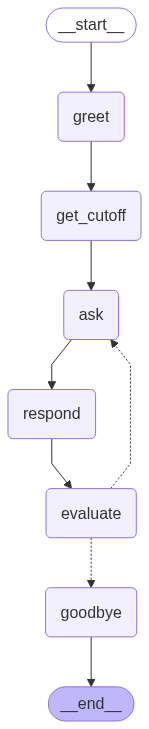
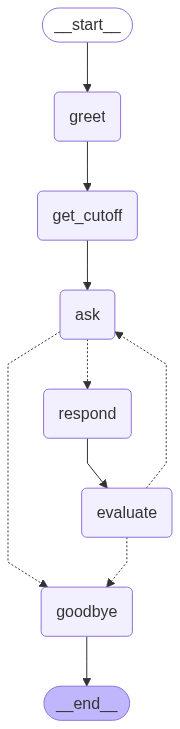
Add interactive chatbot tutorial with state management and graph visualization

diff --git a/01-Graphs/07-Sequential_Graphs/07-Sequential_Graphs.py b/01-Graphs/07-Sequential_Graphs/07-Sequential_Graphs.py
@@ -1,0 +1,187 @@
+# %% [markdown]
+# # LangGraph Tutorial: Interactive Chatbot with Advanced Features
+# 
+# ## Introduction
+# 
+# This notebook provides a comprehensive tutorial on building interactive chatbot workflows using LangGraph. It covers fundamental concepts such as:
+# 
+# - **Nodes:** Representing individual processing steps.
+# - **Edges:** Defining the flow of execution between nodes.
+# - **Conditional Routing:** Making decisions based on the state of the graph.
+# - **Looping:** Repeating certain steps based on specific conditions.
+# 
+# ## Environment Setup
+# 
+
+# %%
+from typing import TypedDict, Dict, Any
+from langgraph.graph import StateGraph, START, END
+from langchain_core.messages import BaseMessage, HumanMessage, AIMessage
+from langchain_openai import ChatOpenAI
+from dotenv import load_dotenv
+from rich import print
+from IPython.display import Image, display
+import os
+
+# Load environment variables from .env file
+load_dotenv("../.env")
+
+# Ensure the OpenAI API key is set
+os.environ["OPENAI_API_KEY"] = os.getenv("OPENAI_API_KEY")
+
+# %% [markdown]
+# ## 1. Define the State
+# 
+# The state represents the information that is passed between nodes in the graph.
+
+# %%
+class AgentState(TypedDict):
+    user_name: str                  # User's name
+    user_question: str              # User's current question
+    chat_history: list[BaseMessage] # List of messages in the conversation
+    knowledge_cutoff: str           # Knowledge cutoff date for the model
+    conversation_finished: bool     # Flag to indicate if the conversation is finished
+
+# %% [markdown]
+# ## 2. Define the Nodes
+# 
+# Nodes are the individual steps in the graph. Each node is a function that takes the current state as input and returns a dictionary that updates the state.
+
+# %%
+def greet_user(state: AgentState) -> Dict[str, Any]:
+    """Greets the user and initializes the conversation."""
+    user_name = input("Hello! What is your name? ")
+    return {
+        "user_name": user_name,
+        "chat_history": [AIMessage(content=f"Hi {user_name}! How can I help you today?")],
+        "conversation_finished": False
+    }
+
+
+def get_knowledge_cutoff(state: AgentState) -> Dict[str, Any]:
+    """Gets the knowledge cutoff date for the model."""
+    model = ChatOpenAI(model_name="gpt-3.5-turbo")
+    response = model.invoke("What is your knowledge cutoff date?")
+    return {"knowledge_cutoff": response.content}
+
+
+def ask_question(state: AgentState) -> Dict[str, Any]:
+    """
+    Asks the user for their question. 
+    If the user types '/exit', sets conversation_finished = True.
+    """
+    user_question = input("You (type /exit to quit): ")
+    if user_question.strip() == "/exit":
+        # Directly signal that we should end the conversation
+        return {"user_question": user_question, "conversation_finished": True}
+    return {"user_question": user_question}
+
+
+def generate_response(state: AgentState) -> Dict[str, Any]:
+    """Generates a response to the user's question using a ChatOpenAI model."""
+    model = ChatOpenAI(model_name="gpt-3.5-turbo")
+    # Append the user's question to history and get a response
+    messages = state["chat_history"] + [HumanMessage(content=state["user_question"])]
+    response = model.invoke(messages)
+    new_history = state["chat_history"] + [HumanMessage(content=state["user_question"]), response]
+    return {"chat_history": new_history}
+
+
+def evaluate_response(state: AgentState) -> Dict[str, bool]:
+    """
+    Evaluates if the conversation should continue or end.
+    If conversation_finished is already True, we stay True.
+    Otherwise, ask the user if they want to continue.
+    """
+    if state.get("conversation_finished", False):
+        return {"conversation_finished": True}
+
+    user_input = input("Do you have any more questions? (yes/no): ").lower()
+    if user_input in ("no", "n"):
+        return {"conversation_finished": True}
+    return {"conversation_finished": False}
+
+
+def goodbye_message(state: AgentState) -> Dict[str, Any]:
+    """Sends a goodbye message to the user."""
+    print("Goodbye!")
+    return {}
+
+# %% [markdown]
+# ## 3. Define the Graph
+# 
+# The graph defines the flow of execution between the nodes. Note how “ask” now conditionally jumps to “goodbye” if the user typed `/exit`.
+
+# %%
+graph = StateGraph(AgentState)
+
+# Add nodes
+graph.add_node("greet", greet_user)
+graph.add_node("get_cutoff", get_knowledge_cutoff)
+graph.add_node("ask", ask_question)
+graph.add_node("respond", generate_response)
+graph.add_node("evaluate", evaluate_response)
+graph.add_node("goodbye", goodbye_message)
+
+# Define edges
+graph.add_edge(START, "greet")
+graph.add_edge("greet", "get_cutoff")
+
+# Instead of a direct edge from "ask" → "respond", we add a conditional edge:
+#   - If the user typed "/exit", state["conversation_finished"] is True, so send to "goodbye"
+#   - Otherwise, go to "respond"
+def ask_outcome(state: AgentState) -> str:
+    return "goodbye" if state.get("conversation_finished", False) else "respond"
+
+graph.add_edge("get_cutoff", "ask")
+graph.add_conditional_edges("ask", ask_outcome, {"respond": "respond", "goodbye": "goodbye"})
+
+# After "respond", always check if we should loop or finish
+graph.add_edge("respond", "evaluate")
+
+# From "evaluate", either loop back to "ask" or go to "goodbye"
+def should_continue(state: AgentState) -> str:
+    return "ask" if not state.get("conversation_finished", False) else "goodbye"
+
+graph.add_conditional_edges("evaluate", should_continue, {"ask": "ask", "goodbye": "goodbye"})
+graph.add_edge("goodbye", END)
+
+# Compile the graph
+app = graph.compile()
+
+# %% [markdown]
+# ## 4. Visualize the Graph
+# 
+# Visualizing the graph can help you understand the flow of execution.
+
+# %%
+# Visualize the Graph (requires graphviz and pygraphviz or pydot)
+display(Image(app.get_graph().draw_mermaid_png()))
+
+# Save the graph to a file
+with open("../output/07-Interactive_Chatbot.png", "wb") as f:
+    f.write(app.get_graph().draw_mermaid_png())
+
+# %% [markdown]
+# ## 5. Run the Graph
+# 
+# Now, let's run the graph with an initial state. Typing `/exit` at any “You:” prompt will immediately jump to the goodbye node.
+
+# %%
+# Initial state
+initial_state = {
+    "user_name": "",
+    "user_question": "",
+    "chat_history": [],
+    "knowledge_cutoff": "",
+    "conversation_finished": False,
+}
+
+# Run the graph
+result = app.invoke(initial_state)
+
+# Print the chat history (if any)
+print("\n--- Chat History ---")
+for message in result.get("chat_history", []):
+    message.pretty_print()
+
